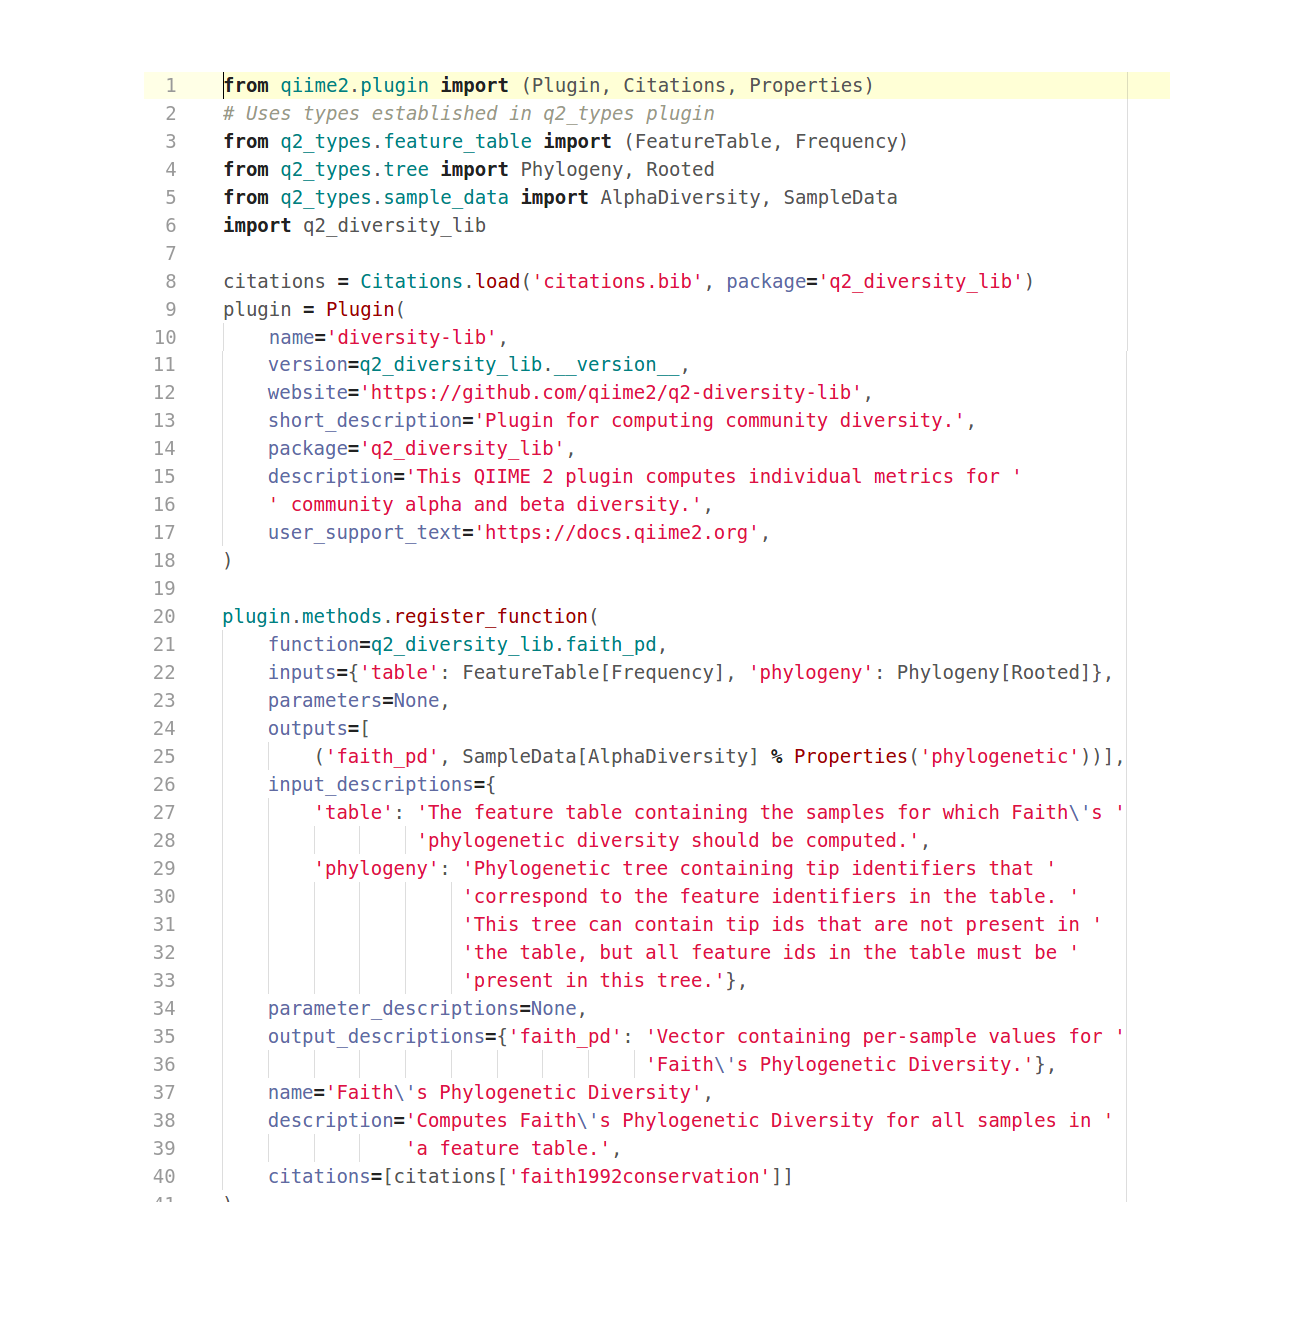
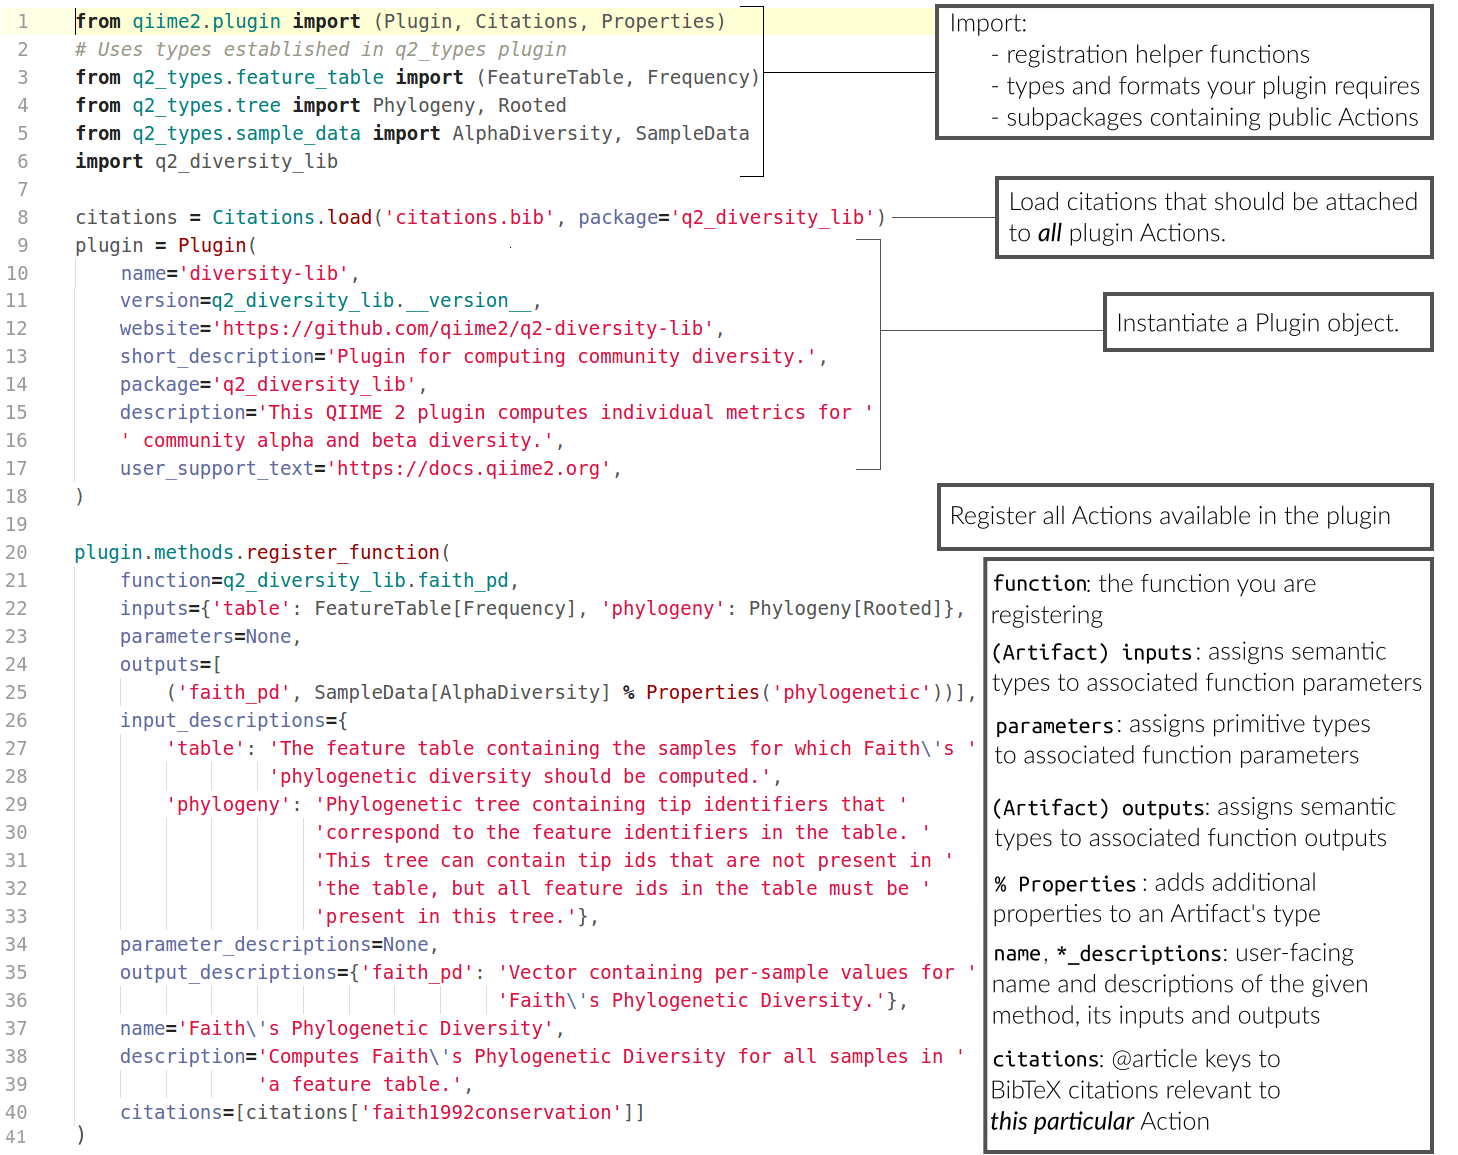
final copy edits, adds proper registrationDiagram, final infrastructure fig

diff --git a/poster.tex b/poster.tex
@@ -60,7 +60,7 @@
 % Title
 % ====================
 
-\title{Developing a QIIME 2 plugin - a Simple Annotation for Robust Tools}
+\title{Developing a QIIME 2 Plugin - a Simple Annotation for Robust Tools}
 
 \author{Christopher R. Keefe \and Evan Bolyen \and Matthew Ryan Dillon \and J. Gregory Caporaso}
 
@@ -94,7 +94,7 @@
 
     \begin{figure}[tph!]
     {\includegraphics[height=16cm]{assets/infrastructure_diagram_bicolor}}
-    \caption{\,Plugins reduce development overhead by utilizing existing infrastructure (purple).}
+    \caption{\,QIIME 2 plugins reduce development overhead by utilizing existing infrastructure (blue).}
     \label{fig:infrastructure}
     \end{figure}
 
@@ -113,7 +113,7 @@
       between disparate methods in an analytical pipeline, and cross-platform compatability
       \item \textbf{Semantic typing:} A rich and extensible type system prevents user
       error, supports backwards compatability and collaboration
-      \item \textbf{Sharing:} QIIME 2 View allows convenient sharing of QIIME 2 results
+      \item \textbf{Sharing:} QIIME 2 View allows convenient sharing of QIIME 2 Results
     \end{itemize}
   \end{block}
 
@@ -122,7 +122,7 @@
   In order to develop a QIIME 2 plugin, you must first have code you would
   like to run in QIIME 2. Your method may be written Python 3, or in any
   language accessible to Python 3 with a sub-process call: popular plugins wrap
-  code written in R and C, and many options exist.\\
+  code written in R and C, and many other options exist.\\
   \hfill\break
   Example: the q2-alignment plugin wraps the MAFFT application by importing \code{subprocess}, generating I/O filepaths, building a command for the OS, and using that command to run MAFFT.\\
       \begin{tcolorbox}
@@ -160,7 +160,7 @@ def \=maff\=t(se\=quences: DNAFASTAFormat,\\
     \begin{enumerate}
       \item Import any necessary dependencies from other plugins.
       \item Use \code{Plugin()} to instantiate your plugin.
-      \item Use \code{register\_function()} to register \textit{each} public action the plugin offers
+      \item Use \code{register\_function()} to register \textit{each} public Action the plugin offers
       \item Use \code{register\_semantic\_types()} and \code{register\_semantic\_type\_to\_format()} to register any new semantic types or formats available in this plugin.
     \end{enumerate}
   \end{block}
@@ -190,13 +190,13 @@ def \=maff\=t(se\=quences: DNAFASTAFormat,\\
 
   \begin{block}{Visualizations}
     \begin{figure}[tph!]
-    {\includegraphics[height=24cm]{assets/DevelopmentProcessDiagramFlattop}}
+    {\includegraphics[height=28cm]{assets/DevelopmentProcessDiagramFlattop}}
     \caption{\,QIIME 2 plugin development cycle }
     \label{fig:processDiagram}
     \end{figure}
 
     \begin{figure}[tph!]
-    {\includegraphics[height=24cm]{assets/registrationDiagram}}
+    {\includegraphics[width=\textwidth]{assets/registrationDiagram}}
     \caption{\,Overview of registration annotation for QIIME 2 plugins}
     \label{fig:registrationDiagram}
     \end{figure}
@@ -232,8 +232,8 @@ def \=maff\=t(se\=quences: DNAFASTAFormat,\\
   \begin{block}{Create a Python package}
 
     Plugins are Python packages with metadata hooks QIIME 2 uses to facilitate
-    communication with the other plugins in a deployment. Packaging
-    simplifies plugin installation for users, and provides access to the QIIME 2 platform.
+    communication between plugins. Packaging
+    simplifies plugin installation, and provides access to the QIIME 2 platform.
 
     \begin{tcolorbox}
     [width=\textwidth, colframe=blue]
@@ -246,7 +246,7 @@ def \=maff\=t(se\=quences: DNAFASTAFormat,\\
     \begin{itemize}
       \item Define one or more Python 3 functions in a package
       \item Include \code{\_\_init\_\_.py} files for every subpackage of your
-      plugin. (This is a requirement of a Python package.)
+      plugin (a requirement of Python packages).
       \item In your \code{plugin\_setup.py}, instantiate a \code{qiime2.plugin.Plugin} object
       \item In your plugin package's \code{setup.py}, define that instance as an entry point
     \end{itemize}
@@ -269,7 +269,7 @@ def \=maff\=t(se\=quences: DNAFASTAFormat,\\
 
     Plugins are often publishable as software announcements in academic journals.
     Recently-published plugins include \code{q2-perc-norm}\cite{Gibbons1006102},
-    \code{q2-itsexpress}\cite{Rivers15704-1}, \code{DEICODE}\cite{Martinoe00016-19}, and \code{q2-clawback}\cite{Kaehler406611}.
+    \code{q2-itsexpress}\cite{Rivers15704-1}, and \code{DEICODE}\cite{Martinoe00016-19}.
 
   \end{block}
 
@@ -278,13 +278,13 @@ def \=maff\=t(se\=quences: DNAFASTAFormat,\\
     \begin{itemize}
       \item \textbf{TypeMap:} A new type map system will launch in QIIME 2 2019.4,
       giving developers powerful new tools for manipulating and constraining the types of
-      data used and produced by actions. TypeMap will allow plugins to assign
+      data used and produced by Actions. TypeMap will allow plugins to assign
       nuanced types to their outputs programatically (e.g. based on parameterization),
       and will enhance plugins' ability to intelligently constrain allowable data inputs
       even through user-defined workflows.
       \item \textbf{\code{q2-galaxy:}} A new Galaxy interface (\code{galaxyproject.org})
       is planned for launch in QIIME 2 2019.7 or 2019.10. This powerful GUI will
-      be capable of performing any actions in a given QIIME 2 deployment, and
+      be capable of performing any Actions in a given QIIME 2 deployment, and
       will support centralized QIIME 2 installations effectively.
     \end{itemize}
 
@@ -295,7 +295,6 @@ def \=maff\=t(se\=quences: DNAFASTAFormat,\\
       \item \href{https://dev.qiime2.org/latest/tutorials/first-plugin-tutorial/}{Developing a (QIIME 2) Plugin for Dummies: dev.qiime2.org/latest/tutorials/first-plugin-tutorial/}
       \item \href{https://docs.qiime2.org/2019.1/plugins/developing/}{Developing a QIIME 2 Plugin: docs.qiime2.org/2019.1/plugins/developing/}
       \item \href{https://dev.qiime2.org/latest/storing-data/types/}{Semantic and Primitive Types: dev.qiime2.org/latest/storing-data/types/}
-      \item \href{https://library.qiime2.org/}{QIIME 2 Library: library.qiime2.org/}
       \item \href{https://python-packaging.readthedocs.io/en/latest/minimal.html}{Python Packaging: python-packaging.readthedocs.io/en/latest/minimal.html}
       \item \href{https://dev.qiime2.org/latest/tutorials/conda-tutorial/}{Publishing plugins on Conda: dev.qiime2.org/latest/tutorials/conda-tutorial/}
     \end{itemize}
